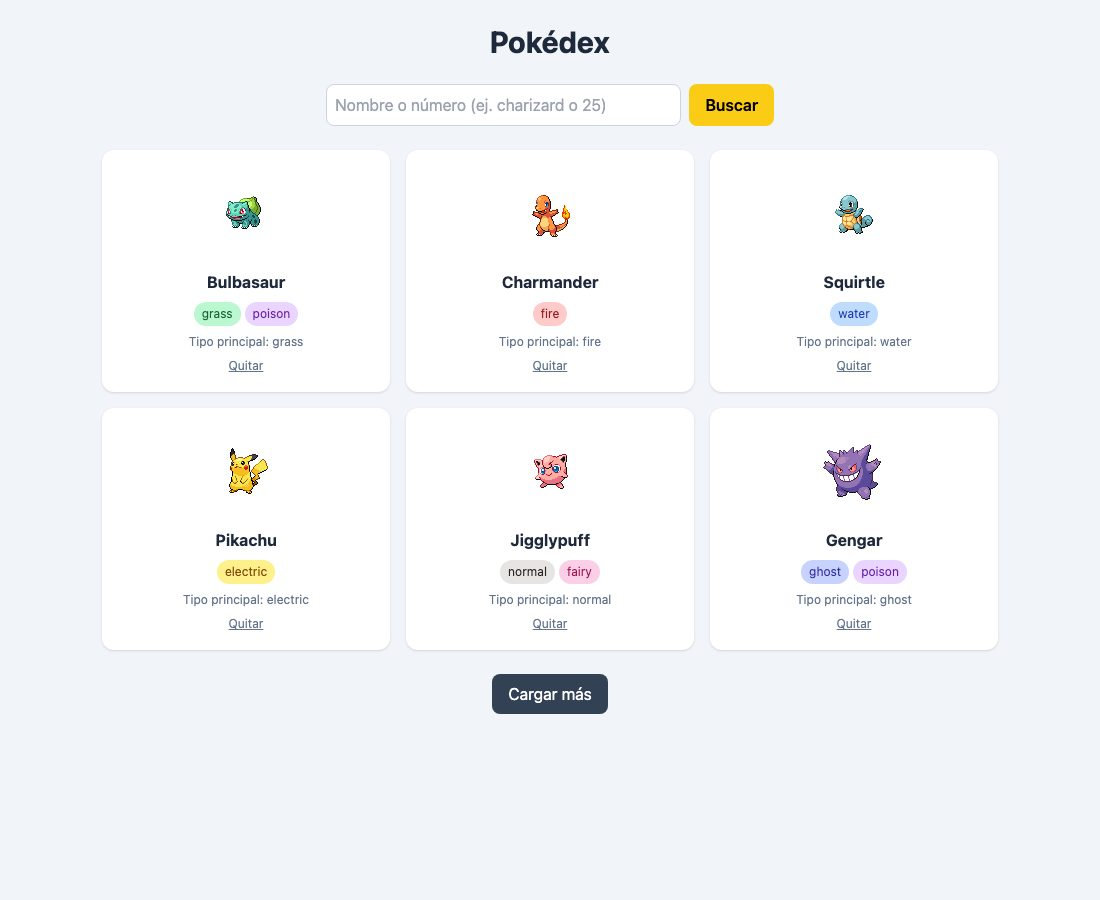
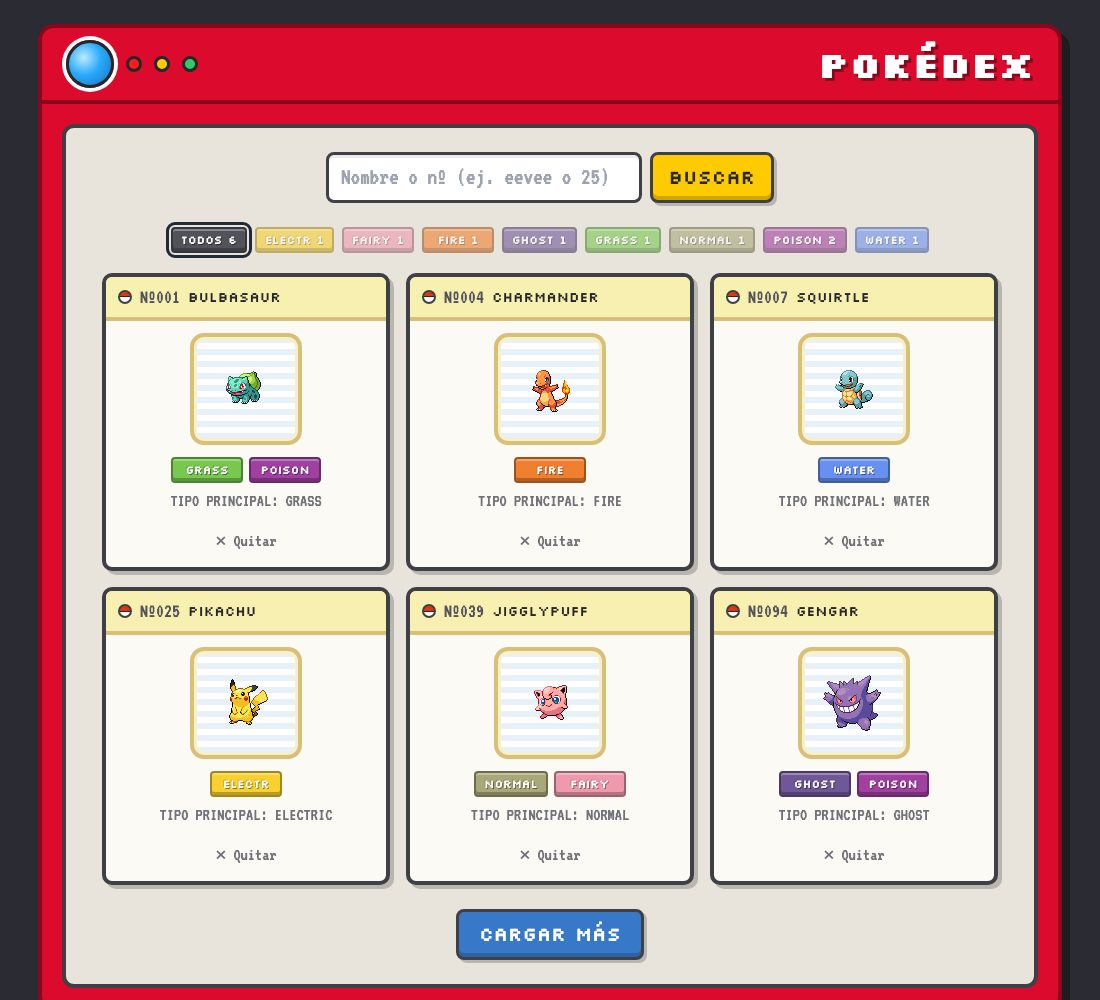
Diseño retro estilo Pokedex de consola portatil

diff --git a/js/app.js b/js/app.js
@@ -2,38 +2,53 @@
 // Laboratorio 12 — Manejo de errores y estados
 // =========================================================
 
-// Logro 1: color de cada badge según el tipo
+// Logro 1: color de cada badge según el tipo (paleta clásica de los juegos)
 const coloresTipo = {
-  grass: "bg-green-200 text-green-800",
-  poison: "bg-purple-200 text-purple-800",
-  fire: "bg-red-200 text-red-800",
-  water: "bg-blue-200 text-blue-800",
-  electric: "bg-yellow-200 text-yellow-800",
-  normal: "bg-stone-200 text-stone-800",
-  fairy: "bg-pink-200 text-pink-800",
-  ghost: "bg-indigo-200 text-indigo-800"
+  fighting: "#C03028", fire: "#F08030", electric: "#F8D030",
+  bug: "#A8B820", grass: "#78C850", ice: "#98D8D8",
+  water: "#6890F0", dragon: "#7038F8", ghost: "#705898",
+  poison: "#A040A0", psychic: "#F85888", flying: "#A890F0",
+  steel: "#B8B8D0", normal: "#A8A878", ground: "#E0C068",
+  rock: "#B8A038", dark: "#705848", fairy: "#EE99AC"
 };
+
+// Abreviaturas como en la pantalla de la Pokédex
+const abreviaturas = { fighting: "fight", electric: "electr", psychic: "psychc" };
+
+function badgeTipo(tipo) {
+  const color = coloresTipo[tipo] ?? "#68A090";
+  const texto = abreviaturas[tipo] ?? tipo;
+  return `<span class="tipo" style="--color: ${color}">${texto}</span>`;
+}
 
 const contenedor = document.getElementById("resultado");
 
 function crearTarjeta(pokemon) {
-  const { nombre, imagen, tipos } = pokemon;            // destructuring de objeto
+  const { nombre, imagen, tipos, numero } = pokemon;    // destructuring de objeto
   const img = imagen ?? "https://via.placeholder.com/96?text=?";   // ?? : respaldo si falta la imagen
   const [principal = "desconocido"] = tipos ?? [];      // Logro 3: destructuring de array
 
   // ?. : si a un Pokémon le faltaran los tipos, no se rompe
-  const badges = tipos?.map(function (tipo) {
-    const color = coloresTipo[tipo] ?? "bg-slate-200 text-slate-700";
-    return `<span class="text-xs ${color} px-2 py-1 rounded-full">${tipo}</span>`;
-  }).join("") ?? "";
+  const badges = tipos?.map(badgeTipo).join("") ?? "";
+
+  // Número con 3 cifras como en la Pokédex: 25 → "025" (si no hay número, no se muestra)
+  const numeroDex = numero ? `Nº${String(numero).padStart(3, "0")}` : "";
 
   const articulo = document.createElement("article");
-  articulo.className = "bg-white rounded-xl shadow p-4 text-center";
+  articulo.className = "tarjeta-dex text-center";
   articulo.innerHTML = `
-    <img src="${img}" alt="${nombre}" class="w-24 h-24 mx-auto">
-    <h2 class="capitalize font-bold text-slate-800 mt-2">${nombre}</h2>
-    <div class="flex gap-1 justify-center mt-2 flex-wrap">${badges}</div>
-    <p class="text-xs text-slate-500 mt-2">Tipo principal: ${principal}</p>
+    <div class="flex items-center gap-2 px-3 py-1.5 bg-[#f8f0b0] border-b-4 border-[#d8c078] text-left">
+      <span class="inline-block w-3.5 h-3.5 rounded-full border-2 border-zinc-700 bg-[linear-gradient(180deg,#e3350d_0_45%,#27272a_45%_55%,#fff_55%)]" aria-hidden="true"></span>
+      <span class="text-xl text-zinc-600">${numeroDex}</span>
+      <h2 class="pixel-titulo uppercase text-[0.7rem] sm:text-sm text-zinc-800 truncate">${nombre}</h2>
+    </div>
+    <div class="p-3">
+      <div class="marco-sprite mx-auto w-28 h-28 grid place-items-center">
+        <img src="${img}" alt="${nombre}" class="pixelado w-24 h-24">
+      </div>
+      <div class="flex gap-1.5 justify-center mt-3 flex-wrap">${badges}</div>
+      <p class="text-lg text-zinc-500 mt-1 uppercase">Tipo principal: ${principal}</p>
+    </div>
   `;
   return articulo;
 }
@@ -43,7 +58,8 @@ function crearBotonQuitar(pokemon) {
   const boton = document.createElement("button");
   boton.textContent = "Quitar";
   boton.setAttribute("aria-label", `Quitar a ${pokemon.nombre}`);
-  boton.className = "mt-2 text-xs text-slate-500 underline hover:text-red-600";
+  boton.className = "mb-3 px-2 text-lg text-zinc-500 hover:text-[#dc0a2d]";
+  boton.textContent = "✕ Quitar";
   boton.addEventListener("click", function () {
     pokedex = pokedex.filter(p => p.nombre !== pokemon.nombre);
     mostrarColeccion();
@@ -64,6 +80,7 @@ function render(lista) {
 function adaptarPokemon(data) {
   return {
     nombre: data.name,
+    numero: data.id,   // nº de la Pokédex (para la cabecera "Nº025")
     imagen: data.sprites?.front_default ?? "https://via.placeholder.com/96?text=?",
     tipos:  data.types.map(t => t.type.name),   // [{type:{name:"electric"}}] → ["electric"]
     stats:  data.stats.map(s => ({ nombre: s.stat.name, valor: s.base_stat }))
@@ -79,11 +96,12 @@ const filtros = document.getElementById("filtros");
 
 function crearBotonFiltro(tipo, cantidad) {
   const activo = tipo === tipoActivo;
-  const color = tipo === "todos" ? "bg-slate-700 text-white" : (coloresTipo[tipo] ?? "bg-slate-200 text-slate-700");
+  const color = tipo === "todos" ? "#52525b" : (coloresTipo[tipo] ?? "#68A090");
   const boton = document.createElement("button");
-  boton.textContent = `${tipo === "todos" ? "Todos" : tipo} (${cantidad})`;
+  boton.textContent = `${tipo === "todos" ? "Todos" : (abreviaturas[tipo] ?? tipo)} ${cantidad}`;
   boton.setAttribute("aria-pressed", String(activo));   // lectores de pantalla: cuál está activo
-  boton.className = `text-xs capitalize px-3 py-1 rounded-full transition ${color} ${activo ? "ring-2 ring-offset-2 ring-slate-700" : "opacity-70 hover:opacity-100"}`;
+  boton.className = `tipo ${activo ? "" : "opacity-60 hover:opacity-100"}`;
+  boton.style.setProperty("--color", color);
   boton.addEventListener("click", function () {
     tipoActivo = tipo;
     mostrarColeccion();
@@ -125,7 +143,7 @@ const spinner = document.getElementById("spinner");
 function mostrarError(texto, reintentar) {
   const boton = document.createElement("button");
   boton.textContent = "Reintentar";
-  boton.className = "ml-2 px-3 py-1 rounded-lg bg-red-600 text-white text-sm hover:bg-red-700";
+  boton.className = "boton-ds ml-3 px-3 py-1 text-sm bg-[#fecb00] text-zinc-800 hover:bg-[#ffd83d]";
   boton.addEventListener("click", reintentar);
   mensaje.replaceChildren(texto, boton);   // texto + botón dentro de #mensaje
   mensaje.classList.remove("hidden");
@@ -176,12 +194,12 @@ async function buscarPokemon(nombre) {
 // Aviso neutro (no es un error): la búsqueda funcionó, pero no hay resultado
 function mostrarNoEncontrado(nombre) {
   const aviso = document.createElement("div");
-  aviso.className = "col-span-full bg-white rounded-xl shadow p-6 text-center text-slate-600";
+  aviso.className = "col-span-full caja-dialogo max-w-xl w-full mx-auto px-5 py-4 text-center";
   const titulo = document.createElement("p");
-  titulo.className = "font-semibold text-slate-800";
+  titulo.className = "pixel-titulo text-base font-bold";
   titulo.textContent = `🔍 No se encontró "${nombre}"`;   // textContent: lo escrito no se interpreta como HTML
   const ayuda = document.createElement("p");
-  ayuda.className = "text-sm mt-1";
+  ayuda.className = "mt-1 text-zinc-600";
   ayuda.textContent = "Revisa cómo se escribe o prueba con su número (ej. 25).";
   aviso.append(titulo, ayuda);
   contenedor.replaceChildren(aviso);
@@ -209,30 +227,30 @@ const STAT_MAXIMA = 255;   // el valor base más alto que existe en los juegos
 
 // Color según qué tan alta es la estadística
 function colorBarra(valor) {
-  if (valor < 50) return "bg-red-400";
-  if (valor < 90) return "bg-yellow-400";
-  return "bg-green-500";
+  if (valor < 50) return "bg-[#f05030]";
+  if (valor < 90) return "bg-[#f8c030]";
+  return "bg-[#48b048]";
 }
 
 function crearBarrasStats(stats) {
   const contenedorStats = document.createElement("div");
-  contenedorStats.className = "mt-3 text-left text-xs space-y-1.5";
+  contenedorStats.className = "caja-dialogo mx-3 mt-1 mb-4 px-3 py-2 text-left text-xl leading-tight space-y-1";
 
   const filas = stats.map(function ({ nombre, valor }) {   // destructuring en el parámetro
     const ancho = Math.round((valor / STAT_MAXIMA) * 100);   // % de la barra
     const etiqueta = nombresStats[nombre] ?? nombre;
     return `
       <div>
-        <div class="flex justify-between"><span>${etiqueta}</span><span class="font-semibold">${valor}</span></div>
-        <div class="h-2 rounded-full bg-slate-200 overflow-hidden" aria-hidden="true">
-          <div class="h-2 rounded-full ${colorBarra(valor)}" style="width: ${ancho}%"></div>
+        <div class="flex justify-between uppercase tracking-wide"><span>${etiqueta}</span><span class="font-bold">${valor}</span></div>
+        <div class="h-2.5 bg-zinc-200 border-2 border-zinc-700 rounded-sm overflow-hidden" aria-hidden="true">
+          <div class="h-full ${colorBarra(valor)}" style="width: ${ancho}%"></div>
         </div>
       </div>`;
   });
 
   const total = stats.reduce((suma, s) => suma + s.valor, 0);
   contenedorStats.innerHTML = filas.join("") + `
-    <div class="flex justify-between border-t border-slate-200 pt-1.5 font-semibold">
+    <div class="flex justify-between border-t-2 border-dashed border-zinc-300 pt-1.5 font-bold uppercase tracking-wide">
       <span>Total</span><span>${total}</span>
     </div>`;
   return contenedorStats;
@@ -247,7 +265,7 @@ function mostrarResultado(pokemon) {
 
   const boton = document.createElement("button");
   boton.textContent = "⚡ Capturar";
-  boton.className = "mt-2 w-full bg-yellow-400 font-semibold rounded-lg py-1 hover:bg-yellow-500";
+  boton.className = "boton-ds mb-4 w-[calc(100%-1.5rem)] py-2 bg-[#fecb00] text-zinc-800 hover:bg-[#ffd83d]";
   boton.addEventListener("click", () => capturar(pokemon));
   tarjeta.appendChild(boton);                       // el botón SOLO en el resultado
 

diff --git a/index.html b/index.html
@@ -4,39 +4,139 @@
   <meta charset="UTF-8">
   <meta name="viewport" content="width=device-width, initial-scale=1.0">
   <title>Pokédex</title>
+  <!-- Fuente pixelada estilo Game Boy / Nintendo DS -->
+  <link rel="preconnect" href="https://fonts.googleapis.com">
+  <link rel="preconnect" href="https://fonts.gstatic.com" crossorigin>
+  <link href="https://fonts.googleapis.com/css2?family=Silkscreen:wght@400;700&family=VT323&display=swap" rel="stylesheet">
   <script src="https://cdn.tailwindcss.com"></script>
+  <!-- Piezas retro que se repiten (badges, marcos, cajas de diálogo). El layout sigue siendo Tailwind -->
+  <style>
+    /* VT323 para textos y números (legible); Silkscreen para títulos, badges y botones */
+    body { font-family: "VT323", ui-monospace, monospace; font-size: 1.2rem; }
+    .pixel-titulo, .tipo, .boton-ds { font-family: "Silkscreen", "VT323", monospace; }
+
+    /* Sprites nítidos, sin difuminar los píxeles */
+    .pixelado { image-rendering: pixelated; }
+
+    /* Badge de tipo: rectángulo pixelado con borde y sombra más oscuros (usa --color) */
+    .tipo {
+      display: inline-block;
+      min-width: 4.5rem;
+      padding: 0.15rem 0.5rem;
+      font-size: 0.72rem;
+      font-weight: 400;
+      letter-spacing: 0;
+      text-transform: uppercase;
+      color: #fff;
+      text-shadow: 1px 1px 0 rgba(0,0,0,.45), -1px -1px 0 rgba(0,0,0,.2);
+      background: var(--color);
+      border: 2px solid color-mix(in srgb, var(--color) 65%, #000);
+      border-radius: 4px;
+      box-shadow: inset 0 -3px 0 color-mix(in srgb, var(--color) 75%, #000),
+                  inset 0 2px 0 color-mix(in srgb, var(--color) 70%, #fff);
+    }
+    button.tipo { cursor: pointer; transition: transform .1s; }
+    button.tipo:hover { transform: translateY(-2px); }
+    button.tipo[aria-pressed="true"] { outline: 3px solid #1f2937; outline-offset: 2px; }
+
+    /* Tarjeta tipo ficha de Pokédex */
+    .tarjeta-dex {
+      background: #fbfaf5;
+      border: 4px solid #3f3f46;
+      border-radius: 10px;
+      box-shadow: 4px 4px 0 rgba(0,0,0,.2);
+      overflow: hidden;
+    }
+
+    /* Marco del sprite: rayas celestes y borde dorado, como en la ficha de Eevee */
+    .marco-sprite {
+      background: repeating-linear-gradient(180deg, #e8f0f8 0 6px, #ffffff 6px 12px);
+      border: 4px solid #d8c078;
+      border-radius: 14px;
+      box-shadow: inset 0 0 0 3px #f8f0c8;
+    }
+
+    /* Caja de diálogo azul (estadísticas y avisos) */
+    .caja-dialogo {
+      background: #ffffff;
+      border: 4px solid #3878c8;
+      border-radius: 10px;
+      box-shadow: 0 0 0 4px #a8d0f8;
+      color: #27272a;
+    }
+    .caja-error { border-color: #c83838; box-shadow: 0 0 0 4px #f8b0b0; }
+
+    /* Botón estilo Nintendo DS */
+    .boton-ds {
+      border: 3px solid #3f3f46;
+      border-radius: 8px;
+      box-shadow: inset 0 -4px 0 rgba(0,0,0,.18), 3px 3px 0 rgba(0,0,0,.2);
+      font-weight: 400;
+      text-transform: uppercase;
+      transition: transform .1s, box-shadow .1s;
+    }
+    .boton-ds:active { transform: translate(2px, 2px); box-shadow: inset 0 -2px 0 rgba(0,0,0,.18); }
+
+    /* Spinner: una Pokébola */
+    .pokebola {
+      width: 44px; height: 44px; border-radius: 50%;
+      border: 4px solid #27272a;
+      background: linear-gradient(180deg, #e3350d 0 44%, #27272a 44% 56%, #ffffff 56% 100%);
+      position: relative;
+    }
+    .pokebola::after {
+      content: ""; position: absolute; inset: 50% auto auto 50%;
+      width: 14px; height: 14px; transform: translate(-50%, -50%);
+      background: #fff; border: 4px solid #27272a; border-radius: 50%;
+    }
+
+    /* Luces de la Pokédex */
+    .luz { border-radius: 50%; border: 3px solid #27272a; }
+  </style>
 </head>
-<body class="bg-slate-100 min-h-screen p-6">
-  <h1 class="text-3xl font-bold text-center text-slate-800 mb-6">Pokédex</h1>
+<body class="min-h-screen bg-[#2b2b33] p-3 sm:p-6 text-zinc-800">
+  <!-- Carcasa roja de la Pokédex -->
+  <div class="max-w-5xl mx-auto rounded-2xl bg-[#dc0a2d] border-4 border-[#89061c] shadow-[8px_8px_0_rgba(0,0,0,.35)] overflow-hidden">
+    <header class="flex items-center gap-3 px-4 py-3 sm:px-6 bg-[#dc0a2d] border-b-4 border-[#89061c]">
+      <span class="luz w-12 h-12 bg-[radial-gradient(circle_at_35%_35%,#bfe9ff,#28aafd_45%,#1d6fbd)] shadow-[0_0_0_4px_#fff]" aria-hidden="true"></span>
+      <span class="luz w-4 h-4 bg-[#ff1c1c]" aria-hidden="true"></span>
+      <span class="luz w-4 h-4 bg-[#fecb00]" aria-hidden="true"></span>
+      <span class="luz w-4 h-4 bg-[#32cb65]" aria-hidden="true"></span>
+      <h1 class="pixel-titulo ml-auto text-2xl sm:text-4xl font-bold text-white [text-shadow:3px_3px_0_#89061c]">POKÉDEX</h1>
+    </header>
 
-  <div class="max-w-md mx-auto flex gap-2 mb-6">
-    <label for="buscador" class="sr-only">Buscar un Pokémon</label>
-    <input id="buscador" type="text" placeholder="Nombre o número (ej. charizard o 25)"
-           class="flex-1 p-2 rounded-lg border border-slate-300">
-    <button id="btn-buscar" class="px-4 py-2 bg-yellow-400 font-semibold rounded-lg hover:bg-yellow-500">
-      Buscar
-    </button>
-  </div>
+    <!-- Pantalla -->
+    <main class="m-3 sm:m-5 rounded-xl bg-[#e8e4dc] border-4 border-[#3f3f46] p-4 sm:p-6">
+      <div class="max-w-md mx-auto flex gap-2 mb-6">
+        <label for="buscador" class="sr-only">Buscar un Pokémon</label>
+        <input id="buscador" type="text" placeholder="Nombre o nº (ej. eevee o 25)"
+               class="flex-1 min-w-0 px-3 py-1.5 text-2xl bg-white border-[3px] border-zinc-700 rounded-lg shadow-[inset_0_3px_0_rgba(0,0,0,.08)] focus:outline-none focus:ring-4 focus:ring-[#fecb00]">
+        <button id="btn-buscar" class="boton-ds px-4 py-2 bg-[#fecb00] hover:bg-[#ffd83d]">
+          Buscar
+        </button>
+      </div>
 
-  <!-- Zonas de estado: carga (#spinner) y errores (#mensaje). hidden las oculta hasta que el JS las muestre -->
-  <div id="spinner" class="hidden text-center text-slate-500 my-4" role="status">
-    <div class="flex flex-col items-center gap-2">
-      <div class="h-10 w-10 animate-spin rounded-full border-4 border-slate-300 border-t-yellow-400"></div>
-      <p>Cargando…</p>
-    </div>
-  </div>
-  <div id="mensaje" class="hidden text-center text-red-600 font-medium my-4" role="alert"></div>
+      <!-- Zonas de estado: carga (#spinner) y errores (#mensaje). hidden las oculta hasta que el JS las muestre -->
+      <div id="spinner" class="hidden text-center my-4" role="status">
+        <div class="flex flex-col items-center gap-2">
+          <div class="pokebola animate-spin" aria-hidden="true"></div>
+          <p class="pixel-titulo text-sm">Cargando…</p>
+        </div>
+      </div>
+      <div id="mensaje" class="hidden caja-dialogo caja-error max-w-xl mx-auto px-4 py-3 text-center text-lg font-semibold my-5" role="alert"></div>
 
-  <!-- HU-B (proyecto): botones para filtrar la colección por tipo. Los genera el JS -->
-  <div id="filtros" class="max-w-4xl mx-auto flex flex-wrap justify-center gap-2 mb-4" role="group" aria-label="Filtrar por tipo"></div>
+      <!-- HU-B (proyecto): botones para filtrar la colección por tipo. Los genera el JS -->
+      <div id="filtros" class="max-w-4xl mx-auto flex flex-wrap justify-center gap-2 mb-5" role="group" aria-label="Filtrar por tipo"></div>
 
-  <!-- Aquí el JS pintará las tarjetas. Empieza vacío. -->
-  <div id="resultado" class="grid grid-cols-2 md:grid-cols-3 gap-4 max-w-4xl mx-auto"></div>
+      <!-- Aquí el JS pintará las tarjetas. Empieza vacío. -->
+      <div id="resultado" class="grid grid-cols-2 md:grid-cols-3 gap-4 max-w-4xl mx-auto"></div>
 
-  <div class="text-center my-6">
-    <button id="cargar-mas" class="px-4 py-2 bg-slate-700 text-white rounded-lg hover:bg-slate-800">
-      Cargar más
-    </button>
+      <div class="text-center mt-6">
+        <button id="cargar-mas" class="boton-ds px-5 py-2 bg-[#3878c8] text-white hover:bg-[#4888d8]">
+          Cargar más
+        </button>
+      </div>
+    </main>
   </div>
 
   <script src="js/app.js"></script>

diff --git a/README.md b/README.md
@@ -19,12 +19,24 @@ Buscador de Pokémon que consume la [PokeAPI](https://pokeapi.co/). Carga una re
 
 ![Resultado de búsqueda con estadísticas y botón Capturar](docs/captura-busqueda.jpg)
 
+## Diseño
+
+Interfaz inspirada en la Pokédex de las consolas portátiles (Game Boy Advance / Nintendo DS):
+
+- Carcasa roja con las luces clásicas y pantalla gris.
+- Tarjetas tipo ficha: cabecera crema con el número (`Nº133`), sprite en un marco a rayas celestes y sprites nítidos con `image-rendering: pixelated`.
+- Badges de los 18 tipos con la paleta clásica de los juegos y sus abreviaturas (`ELECTR`, `PSYCHC`, `FIGHT`).
+- Estadísticas dentro de una caja de diálogo azul, botones estilo DS y una Pokébola girando como indicador de carga.
+- Fuentes pixeladas de Google Fonts: **VT323** para textos y números (legible) y **Silkscreen** para títulos, badges y botones.
+
+El layout sigue hecho con Tailwind; las piezas retro que se repiten (badge, marco, caja de diálogo, botón) están en un pequeño bloque `<style>` del `index.html`. El color de cada badge se pasa con una variable CSS (`--color`).
+
 ## Tecnologías
 
 - **JavaScript** moderno: template literals, destructuring, spread, optional chaining (`?.`) y `??`
 - **Asincronía:** `fetch`, `async/await`, `Promise.all`
 - **Manejo de errores:** `try / catch / finally`, `throw new Error`, `response.ok`
-- **Tailwind CSS** (Play CDN)
+- **Tailwind CSS** (Play CDN) + fuentes **VT323** y **Silkscreen** (Google Fonts)
 - **[PokeAPI](https://pokeapi.co/)** — API pública, sin registro ni clave
 
 ## Funcionalidades por laboratorio
